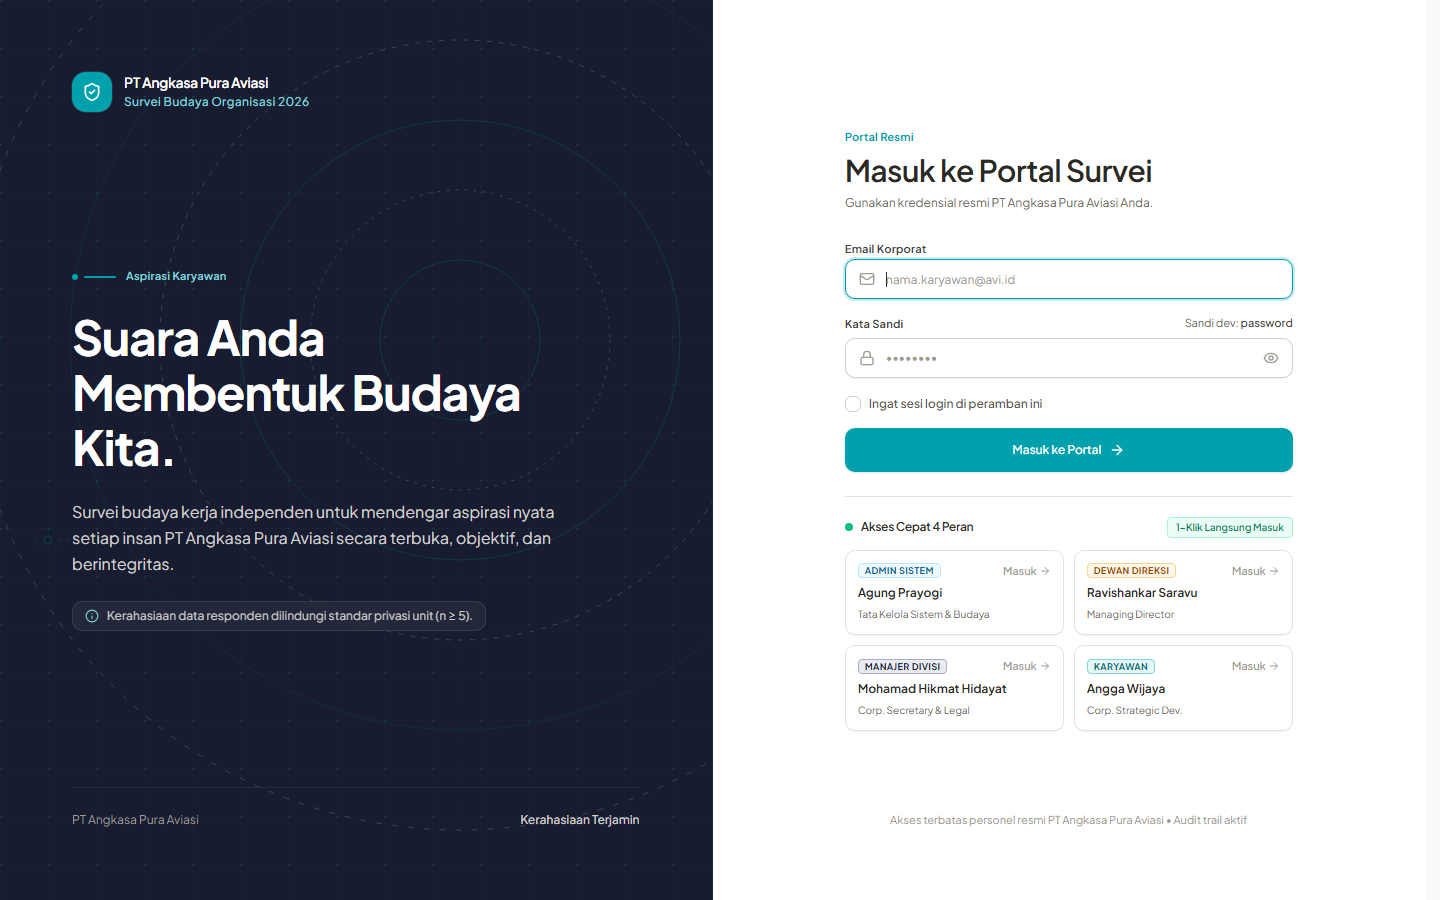
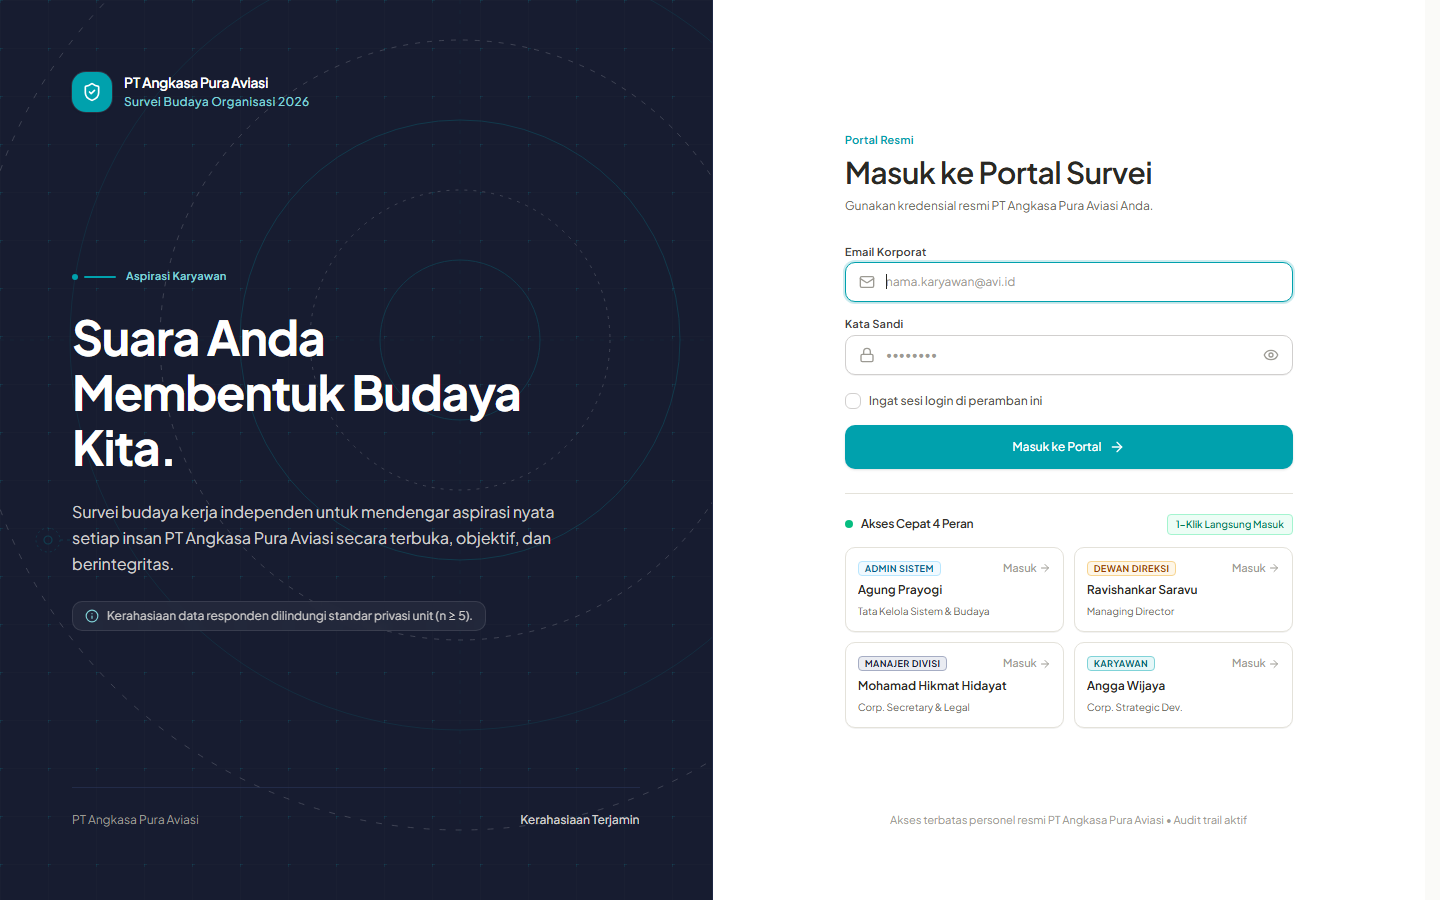
logbook 2026-10-08

diff --git a/2026-10-08/logbook.md b/2026-10-08/logbook.md
@@ -10,28 +10,49 @@
 ---
 
 ## 1. Kegiatan yang Dilakukan (Deskripsi Pekerjaan)
-Mengimplementasikan fitur sistem bilingual (ID/EN) penuh pada Portal Partisipasi Karyawan dan Ruang Kerja Manajer/Admin, memperluas kamus `useLocale` dengan interpolasi parameter dinamis, menegakkan aturan privasi kuorum $n \ge 10$ pada seluruh kartu dan modal, serta mendokumentasikan milestone 181-183 di CHANGELOG.
+Menyelesaikan implementasi sistem lokalisasi bilingual (ID/EN) menyeluruh dari Portal Karyawan, Ruang Kerja Manajer, hingga Executive BOD Cockpit (Milestone 181–184), memperluas kamus `useLocale` dengan interpolasi parameter dinamis, menegakkan aturan privasi kuorum $n \ge 10$, mengeksekusi perbaikan keamanan kritis prioritas P0 dari temuan QA (penghapusan dev hint password, pembatasan simulasi peran/impersonasi, standardisasi masking NIK), serta menambahkan perintah pembersihan data uji (`avi:clean-test-data`) dan otomatisasi tangkapan layar web live.
 
 ---
 
 ## 2. Rincian Capaian & Modul yang Dikerjakan
-- **Milestone 181**: Perluasan Kamus UI Terpusat & Interpolasi Variabel Dinamis pada `resources/js/Composables/useLocale.js`.
-- **Milestone 182**: Integrasi lokalisasi bilingual penuh pada Portal Karyawan (`/survey`), meliputi sapaan waktu dinamis, kartu bento tahapan, tanda terima resmi SK-115, serta penegakan batas privasi $n \ge 10$.
-- **Milestone 183**: Integrasi lokalisasi bilingual penuh pada Ruang Kerja Manajer Unit & Admin Cockpit (`/dashboard/unit`), meliputi 4 Bento Card (Tachometer A-CHPI, Sebaran Tim, Ribbon 3 Pilar, Radar AKHLAK), header profil, serta tabel master divisi dan grid card view.
+
+### A. Lokalisasi Bilingual Penuh (ID / EN)
+- **Milestone 181 (Infrastruktur Kamus & Interpolasi)**:
+  - Perluasan kamus bilingual terpusat di `resources/js/Composables/useLocale.js` dengan 100+ frasa operasional aviasi dan BUMN.
+  - Implementasi interpolasi parameter dinamis (`{target}`, `{score}`, `{count}`, `{gap}`, `{cycle}`, `{date}`, `{level}`).
+- **Milestone 182 (Portal Partisipasi Karyawan)**:
+  - Lokalisasi penuh modul `/survey`: sapaan dinamis waktu, kartu bento tahapan sensus, dialog panduan, modal privasi blind token, kartu konfirmasi rampung, dan tanda terima resmi SK-115.
+  - Penegakan baku ambang batas privasi responden $n \ge 10$ (Aturan R8 / Guardrail 4).
+- **Milestone 183 (Ruang Kerja Manajer & Admin)**:
+  - Lokalisasi modul `/dashboard/unit`: 4 Bento Cards (Tachometer A-CHPI, Sebaran Tim, Ribbon 3 Pilar, Radar Diagnostik AKHLAK), 4 KPI eksekutif, filter toolbar, dan tabel master divisi / grid card view dengan penyamaran privasi.
+- **Milestone 184 (Executive BOD Cockpit & Subcomponents)**:
+  - Lokalisasi modul `/dashboard/bod`: banner metodologi empiris §4.3, panel risiko korporat, A-CHPI gauge, donut behavior mix, Culture Priority Charter, radar keselamatan penerbangan, tabel master unit, serta slide-over drawer `BodUnitDetailDrawer.vue`.
+  - Pembuatan script PowerShell otomatisasi tangkapan layar live web (`capture_screenshot.ps1`).
+
+### B. Mitigasi Keamanan & Perbaikan P0 (QA 8 Okt 2026)
+- **Milestone 185 (Keamanan & Masking Data)**:
+  - **T-01**: Menghapus hint password dan auto-prefill kredensial pada halaman login (`resources/js/Pages/Auth/Login.vue`).
+  - **T-02**: Membatasi fitur "Simulasi Peran" (role impersonation) pada endpoint `/demo-switch` dan komponen navigasi agar hanya dapat diakses oleh admin sistem dan akun penguji resmi (`config('auth.tester_emails')`). Akses luar di-reject dengan HTTP 403 Forbidden.
+  - **T-03**: Menyeragamkan format masking NIK (`maskNik` / `ADM0****`) pada tanda terima sensus karyawan (`SurveyParticipationReceiptCard.vue`), modul registri karyawan, dan manajemen akun.
+  - **T-22 & Pembersihan Data**: Penyesuaian batas rekomendasi sesuai defisit nyata, null-safety pada `BuildUserAdministrationService`, serta perintah artisan `avi:clean-test-data` untuk sanitasi data uji `TEST%` dan `TINY%`.
 
 ---
 
 ## 3. Hasil / Output
-- Seluruh antarmuka portal sensus karyawan dan dashboard unit manajer berhasil merespons pengalihan bahasa ID/EN secara instan dan reaktif tanpa reload.
-- Build produksi Vite (`npm run build`) sukses tanpa error.
-- Dokumentasi milestone 181-183 tercatat rapi di `CHANGELOG.md`.
+- Seluruh antarmuka web (Portal Karyawan, Ruang Kerja Manajer, BOD Cockpit, dan Header Admin) dapat berganti bahasa ID/EN secara instan dan reaktif tanpa reload.
+- Celah keamanan dev hint dan unauthorized role switching berhasil ditutup rapat.
+- Format penyamaran identitas NIK seragam di seluruh portal aplikasi.
+- Seluruh 337 unit dan feature tests (`php artisan test`) lulus 100%.
+- Build aset produksi Vite (`npm run build`) sukses tanpa peringatan kompilasi.
+- Dokumentasi perubahan tercatat detail pada `CHANGELOG.md` (Milestone 181–185).
 
 ---
 
 ## 4. Kendala / Catatan
-- Tidak ada kendala fatal, seluruh komponen Vue terintegrasi dengan mulus ke composable `useLocale`.
+- Tidak ada kendala fatal. Penanganan isolasi transaksi database lintas koneksi (`identity_store` dan `response_store`) pada pengujian end-to-end telah diselesaikan dengan integrasi rollback yang tepat.
 
 ---
 
 ## 5. Refleksi / Yang Dipelajari
-- Pentingnya arsitektur kamus lokalisasi terpusat dan penegakan batas privasi data secara konsisten sejak level komponen antarmuka agar integritas sensus tetap terjaga.
+- Menekankan pentingnya prinsip *defense-in-depth* pada fitur-fitur administratif seperti role switching / impersonation agar tidak dieksploitasi di lingkungan produksi.
+- Konsistensi perlindungan data pribadi (masking NIK dan $n \ge 10$ k-anonymity) harus ditegakkan secara serentak di level backend (DTO/query suppression) maupun frontend display helper.
